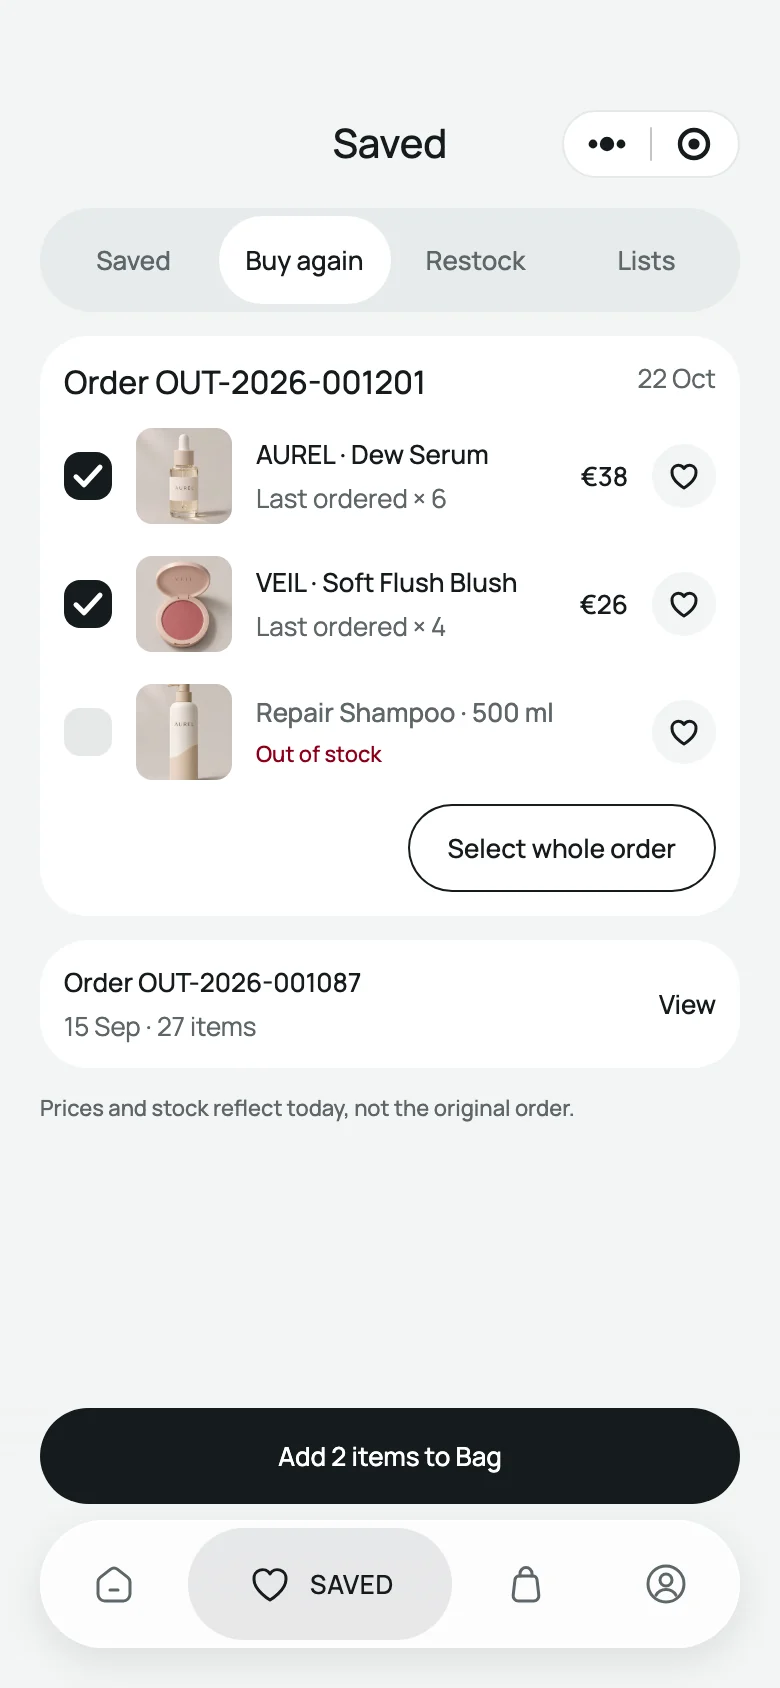
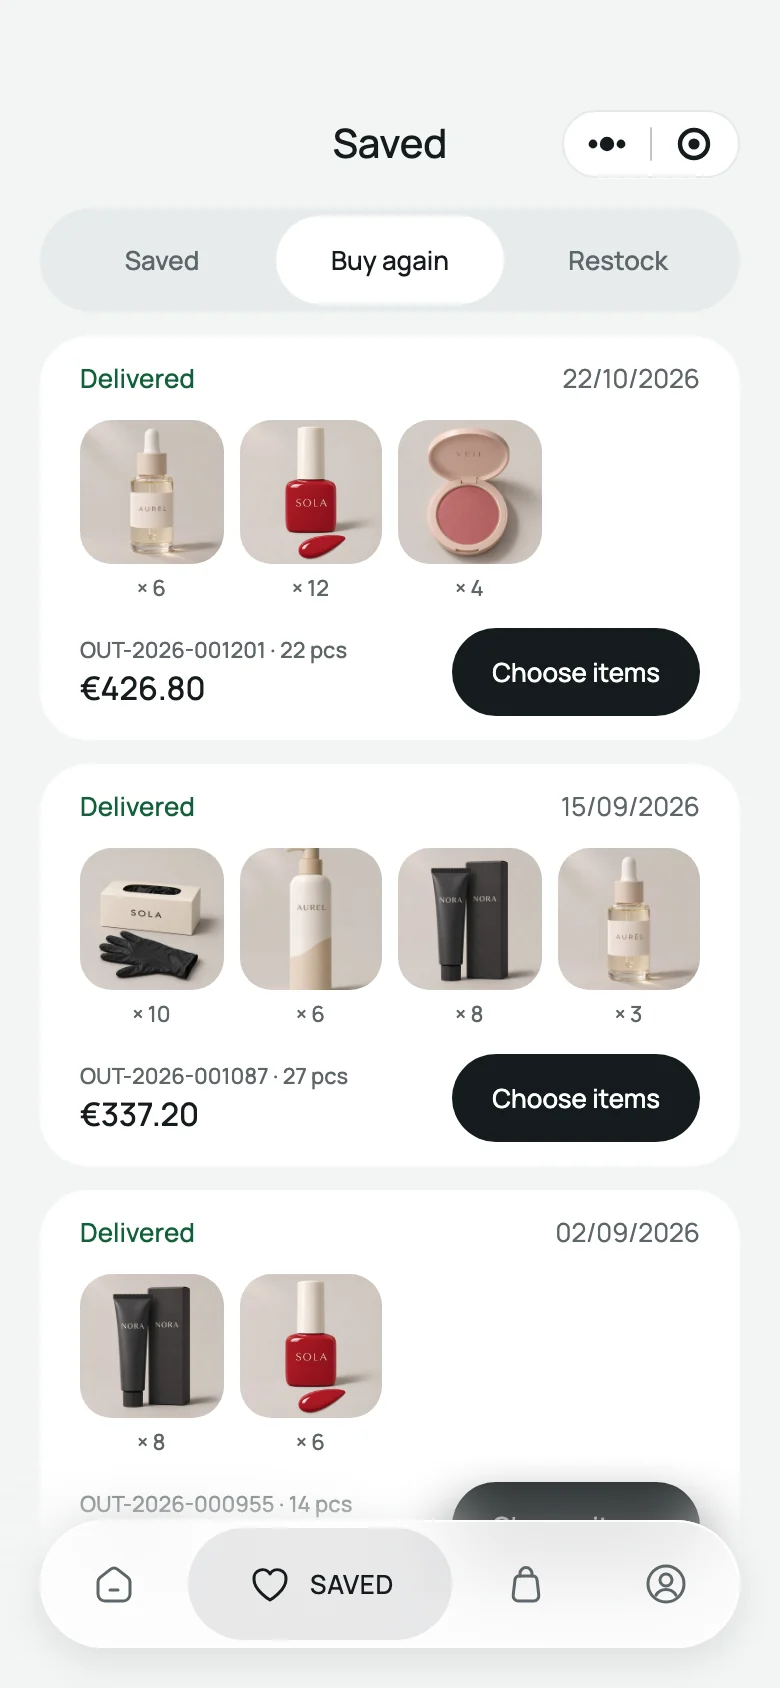
Use the latest Buy again design and three Saved tabs in the screenshots

diff --git a/src/app/projects/def-miniprogram-kit/page.tsx b/src/app/projects/def-miniprogram-kit/page.tsx
@@ -81,7 +81,7 @@ export default function DefMiniProgramKitPage() {
             { shot: 'home', name: 'Home' },
             { shot: 'product', name: 'Product page' },
             { shot: 'shade-sheet', name: 'Shade sheet' },
-            { shot: 'saved', name: 'Saved' },
+            { shot: 'tab-saved', name: 'Saved' },
           ]} />
         </CaseFigure>
 
@@ -114,7 +114,7 @@ export default function DefMiniProgramKitPage() {
           <CaseProse><p>The old structure started from the catalogue. The new one starts from what a merchant already buys, and rests on <strong>four features</strong>.</p></CaseProse>
           <CaseFigure caption="Four features that serve coming back.">
             <Compare label="Main features" items={[
-              { shot: 'saved', name: 'Saved tab', why: 'New shades, restocks, offers and buying again in one place. → 05' },
+              { shot: 'tab-saved', name: 'Saved tab', why: 'New shades, restocks, offers and buying again in one place. → 05' },
               { shot: 'home', name: 'For you home', why: 'Opens on the merchant’s own categories. → 04' },
               { shot: 'search', name: 'Search with categories', why: 'Takes over the Categories tab, so everything else is one search away.' },
               { shot: 'shade-sheet', name: 'One option sheet', why: 'The exact shade, size or pack is chosen without leaving the page. → 06, 07' },

diff --git a/src/app/projects/def-miniprogram-kit/SavedTabs.tsx b/src/app/projects/def-miniprogram-kit/SavedTabs.tsx
@@ -5,7 +5,7 @@ import styles from './SavedTabs.module.css';
 /* Shares come from the March to August order data; a tab without data says so. */
 const tabs: { shot: keyof typeof dims; name: string; role: string; stat?: string; evidence: string }[] = [
   { shot: 'tab-saved', name: 'Saved', role: 'What is new and on offer in what you buy, then the exact items you kept.', stat: '13% vs 1%', evidence: 'pick up a new shade: accounts buying the range, against other accounts.' },
-  { shot: 'tab-buy', name: 'Buy again', role: 'Past orders, ready to add in part or whole at today’s price and stock.', stat: '85%', evidence: 'of repeat accounts bought a product again. 73% of orders were return visits.' },
+  { shot: 'tab-buy', name: 'Buy again', role: 'Past orders shown by their pictures; open one and add part or all of it.', stat: '85%', evidence: 'of repeat accounts bought a product again. 73% of orders were return visits.' },
   { shot: 'tab-restock', name: 'Restock', role: 'What is back, and when the rest is expected, for items that were out when wanted.', evidence: 'From the merchant interviews. Sales data does not record what was out of stock.' },
 ];
 
